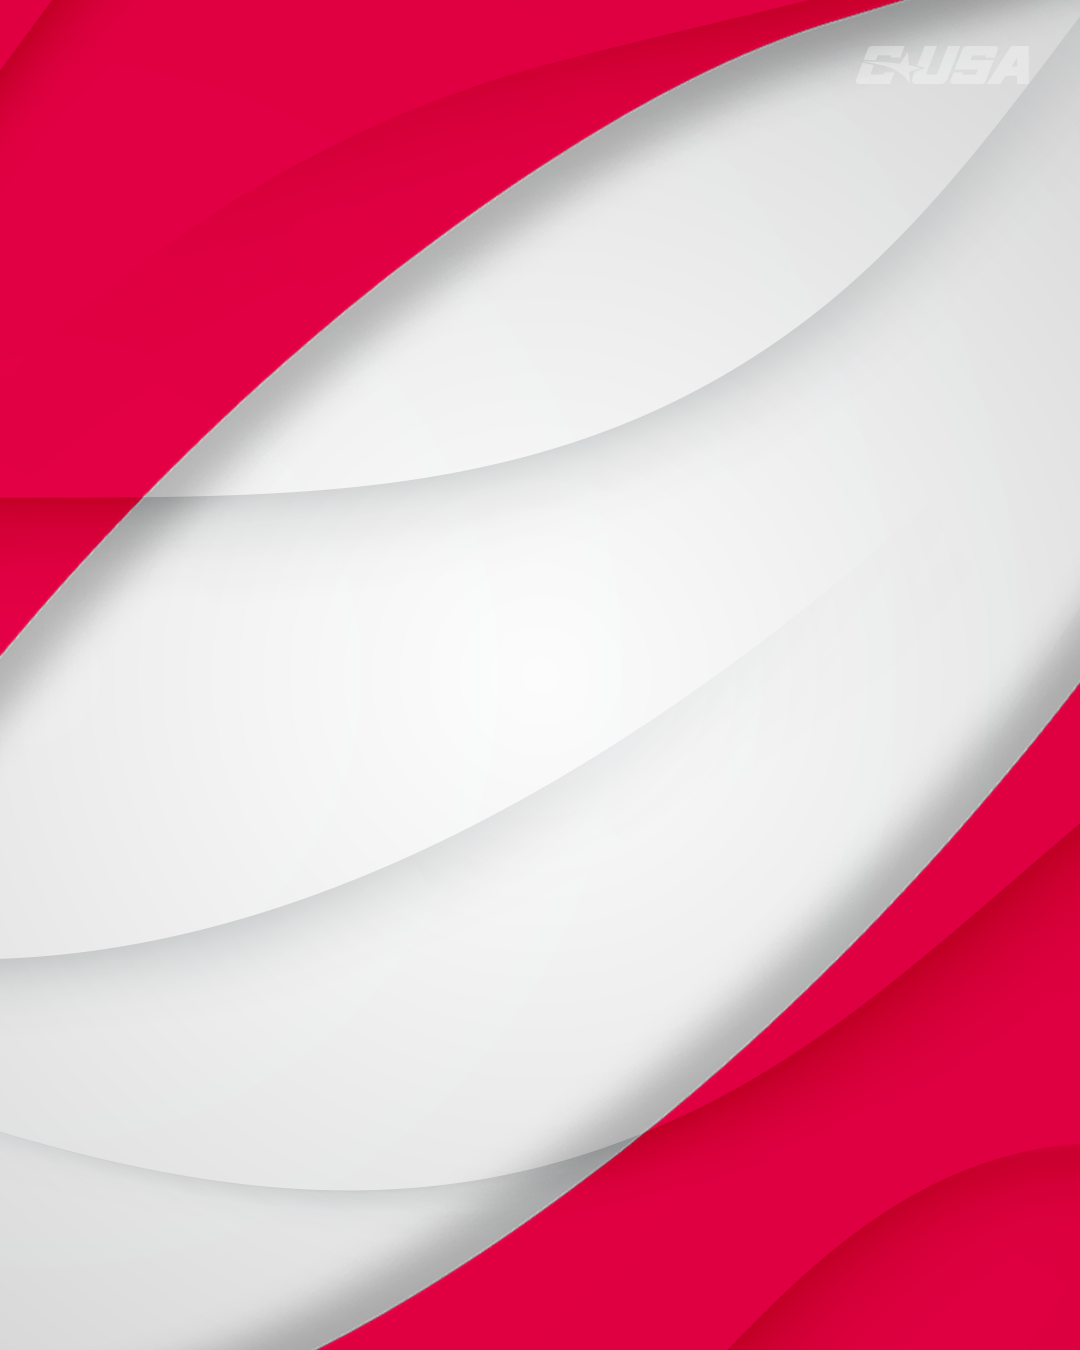
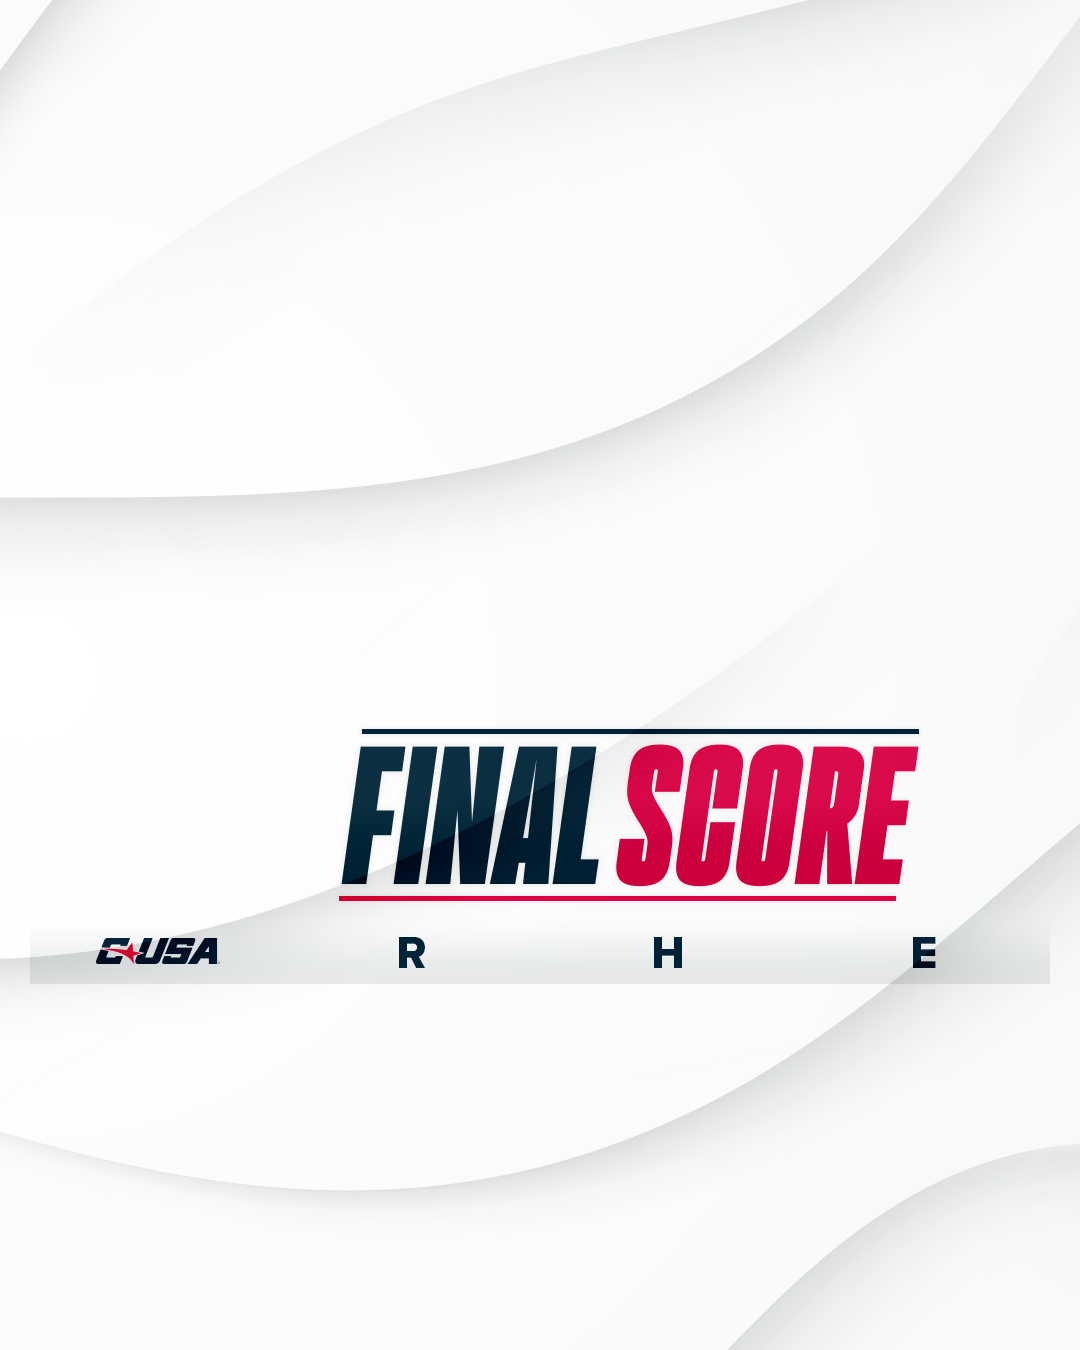
feat(championship): swap BG to all-in-one Final Score design
Replaces the BG asset with the version that bakes FINAL SCORE banner, C-USA mark, and R/H/E labels into a single layer. Defaults hideOverlays to true and gates stored-state restore on bgVersion ≥ 2 so older saves don't resurface the now-redundant scoreBox/scoreOverlay/seedsBoxes layers.

diff --git a/championship.html b/championship.html
@@ -312,7 +312,11 @@ const state = {
   bot: { school: 'Western Kentucky', seed: '2', r: '0', h: '0', e: '0', logoImg: null },
   photo: null,
   customBg: null,           // operator-uploaded Image replacing the default bg layer
-  hideOverlays: false,      // when true, skip the built-in scoreBox / scoreOverlay / seedsBoxes layers
+  // The default BG asset has the FINAL SCORE banner, C-USA mark, and R/H/E
+  // labels baked in, so we skip the separate scoreBox/scoreOverlay/seedsBoxes
+  // layers by default. Operators can re-enable them if they upload an older
+  // separated background design.
+  hideOverlays: true,
   champLogo: {              // optional NCAA championship overlay, drawn topmost
     img: null,
     x: 540,                 // center X (0..1080)
@@ -637,6 +641,9 @@ function persistState(){
       hideOverlays: !!state.hideOverlays,
       champLogo: { src: champLogoSrc, x: state.champLogo.x, y: state.champLogo.y, size: state.champLogo.size },
       adj: state.adj,
+      // bgVersion 2 = default BG ships with FINAL SCORE / C-USA / R-H-E baked in.
+      // Restore logic uses this to decide whether to honor stored hideOverlays.
+      bgVersion: 2,
     }));
   } catch (_) {}
 }
@@ -689,7 +696,13 @@ function restoreState(){
       };
       img.src = v2.customBg;
     }
-    if (typeof v2.hideOverlays === 'boolean') state.hideOverlays = v2.hideOverlays;
+    // Only honor stored hideOverlays once the operator has saved state under
+    // the bgVersion≥2 schema (where the default BG bakes in the score box).
+    // Earlier saves predate the asset swap and would resurface duplicate
+    // overlays if we read them back here.
+    if (typeof v2.hideOverlays === 'boolean' && (v2.bgVersion || 0) >= 2) {
+      state.hideOverlays = v2.hideOverlays;
+    }
     if (v2.champLogo && typeof v2.champLogo === 'object') {
       if (typeof v2.champLogo.x    === 'number') state.champLogo.x    = v2.champLogo.x;
       if (typeof v2.champLogo.y    === 'number') state.champLogo.y    = v2.champLogo.y;
